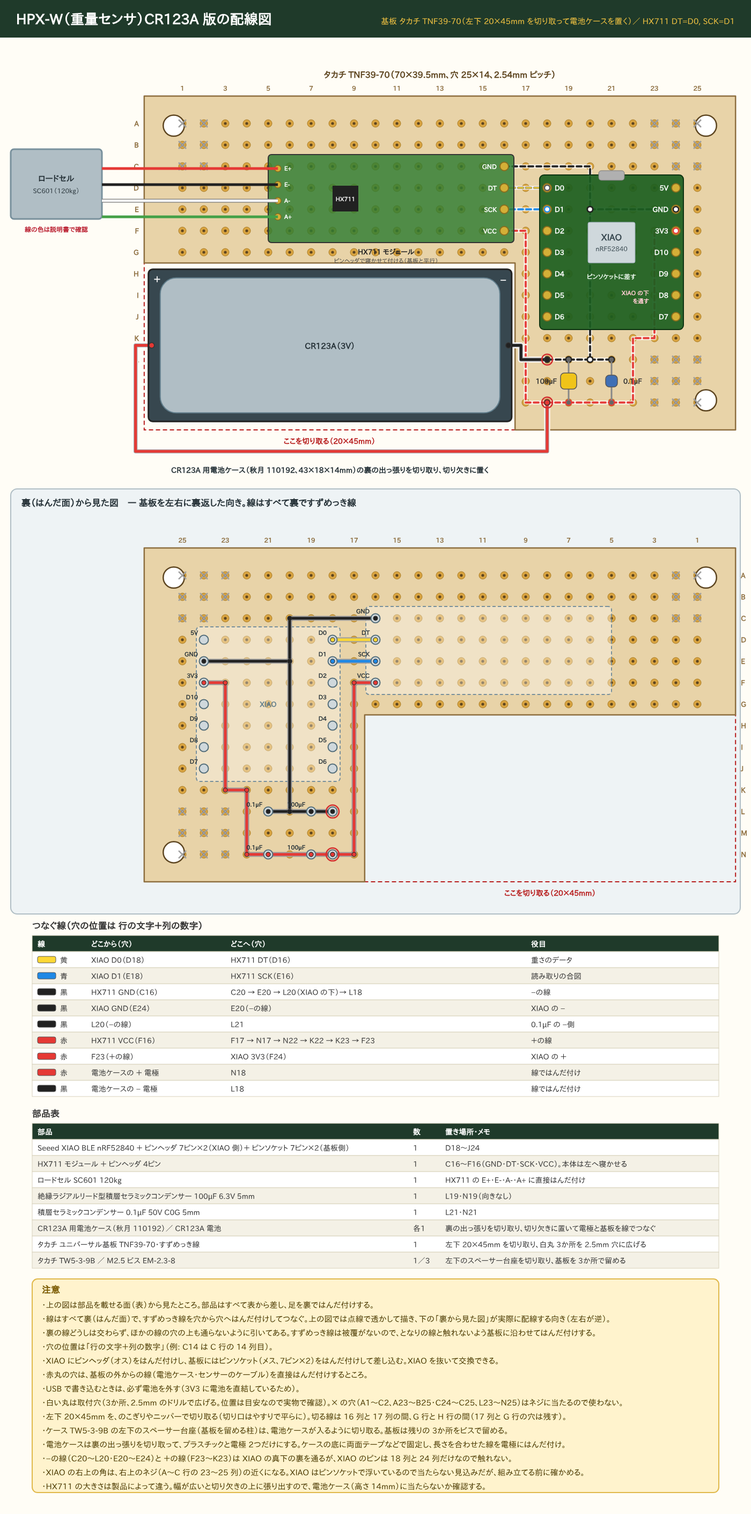
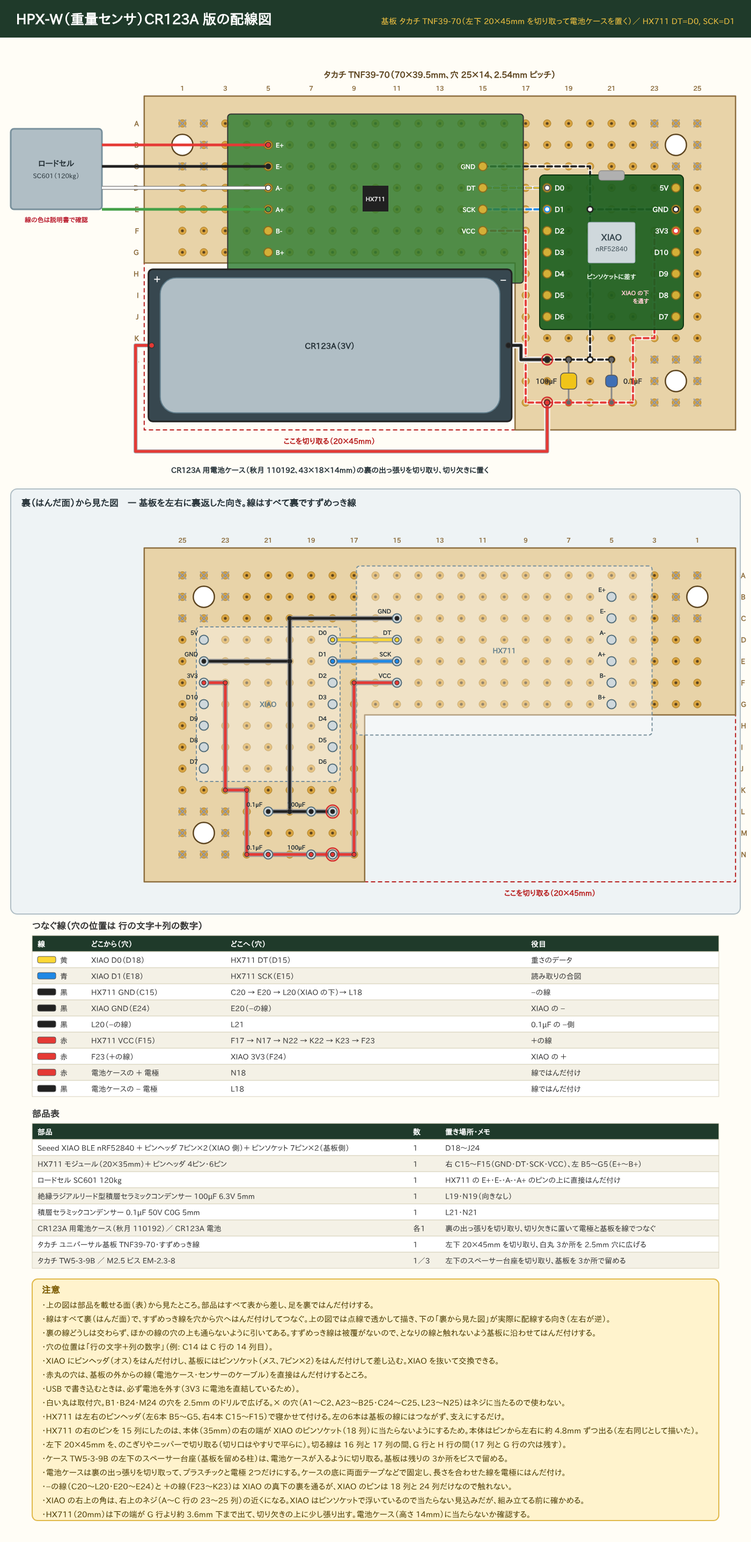
HPX-W CR123A 版: 取付穴を B1・B24・M24 に、HX711 を 20×35mm・左6ピンの形で描き直す
Claude-Session: https://claude.ai/code/session_01LCC9B39bJi5NT1jAZMyf2P

diff --git a/site/device-w.html b/site/device-w.html
@@ -298,13 +298,13 @@
       <div data-variant="w_cr">
       <div class="wtab"><h3>つなぐ線（穴の位置は 行の文字＋列の数字）</h3><div class="scroll"><table>
         <thead><tr><th>線</th><th>どこから（穴）</th><th>どこへ（穴）</th><th>役目</th></tr></thead>
-        <tbody><tr><td class="wc"><span class="sw" style="background:#fdd835"></span>黄</td><td>XIAO D0（D18）</td><td>HX711 DT（D16）</td><td>重さのデータ</td></tr><tr><td class="wc"><span class="sw" style="background:#1e88e5"></span>青</td><td>XIAO D1（E18）</td><td>HX711 SCK（E16）</td><td>読み取りの合図</td></tr><tr><td class="wc"><span class="sw" style="background:#212121"></span>黒</td><td>HX711 GND（C16）</td><td>C20 → E20 → L20（XIAO の下）→ L18</td><td>−の線</td></tr><tr><td class="wc"><span class="sw" style="background:#212121"></span>黒</td><td>XIAO GND（E24）</td><td>E20（−の線）</td><td>XIAO の −</td></tr><tr><td class="wc"><span class="sw" style="background:#212121"></span>黒</td><td>L20（−の線）</td><td>L21</td><td>0.1µF の −側</td></tr><tr><td class="wc"><span class="sw" style="background:#e53935"></span>赤</td><td>HX711 VCC（F16）</td><td>F17 → N17 → N22 → K22 → K23 → F23</td><td>＋の線</td></tr><tr><td class="wc"><span class="sw" style="background:#e53935"></span>赤</td><td>F23（＋の線）</td><td>XIAO 3V3（F24）</td><td>XIAO の ＋</td></tr><tr><td class="wc"><span class="sw" style="background:#e53935"></span>赤</td><td>電池ケースの ＋ 電極</td><td>N18</td><td>線ではんだ付け</td></tr><tr><td class="wc"><span class="sw" style="background:#212121"></span>黒</td><td>電池ケースの − 電極</td><td>L18</td><td>線ではんだ付け</td></tr></tbody>
+        <tbody><tr><td class="wc"><span class="sw" style="background:#fdd835"></span>黄</td><td>XIAO D0（D18）</td><td>HX711 DT（D15）</td><td>重さのデータ</td></tr><tr><td class="wc"><span class="sw" style="background:#1e88e5"></span>青</td><td>XIAO D1（E18）</td><td>HX711 SCK（E15）</td><td>読み取りの合図</td></tr><tr><td class="wc"><span class="sw" style="background:#212121"></span>黒</td><td>HX711 GND（C15）</td><td>C20 → E20 → L20（XIAO の下）→ L18</td><td>−の線</td></tr><tr><td class="wc"><span class="sw" style="background:#212121"></span>黒</td><td>XIAO GND（E24）</td><td>E20（−の線）</td><td>XIAO の −</td></tr><tr><td class="wc"><span class="sw" style="background:#212121"></span>黒</td><td>L20（−の線）</td><td>L21</td><td>0.1µF の −側</td></tr><tr><td class="wc"><span class="sw" style="background:#e53935"></span>赤</td><td>HX711 VCC（F15）</td><td>F17 → N17 → N22 → K22 → K23 → F23</td><td>＋の線</td></tr><tr><td class="wc"><span class="sw" style="background:#e53935"></span>赤</td><td>F23（＋の線）</td><td>XIAO 3V3（F24）</td><td>XIAO の ＋</td></tr><tr><td class="wc"><span class="sw" style="background:#e53935"></span>赤</td><td>電池ケースの ＋ 電極</td><td>N18</td><td>線ではんだ付け</td></tr><tr><td class="wc"><span class="sw" style="background:#212121"></span>黒</td><td>電池ケースの − 電極</td><td>L18</td><td>線ではんだ付け</td></tr></tbody>
       </table></div></div>
       <div class="wtab"><h3>部品の置き場所</h3><div class="scroll"><table>
         <thead><tr><th>部品</th><th>数</th><th>置き場所・メモ</th></tr></thead>
-        <tbody><tr><td>Seeed XIAO BLE nRF52840 ＋ ピンヘッダ 7ピン×2（XIAO 側）＋ ピンソケット 7ピン×2（基板側）</td><td>1</td><td>D18〜J24</td></tr><tr><td>HX711 モジュール ＋ ピンヘッダ 4ピン</td><td>1</td><td>C16〜F16（GND・DT・SCK・VCC）。本体は左へ寝かせる</td></tr><tr><td>ロードセル SC601 120kg</td><td>1</td><td>HX711 の E+・E-・A-・A+ に直接はんだ付け</td></tr><tr><td>絶縁ラジアルリード型積層セラミックコンデンサー 100µF 6.3V 5mm</td><td>1</td><td>L19・N19（向きなし）</td></tr><tr><td>積層セラミックコンデンサー 0.1µF 50V C0G 5mm</td><td>1</td><td>L21・N21</td></tr><tr><td>CR123A 用電池ケース（秋月 110192）／ CR123A 電池</td><td>各1</td><td>裏の出っ張りを切り取り、切り欠きに置いて電極と基板を線でつなぐ</td></tr><tr><td>タカチ ユニバーサル基板 TNF39-70・すずめっき線</td><td>1</td><td>左下 20×45mm を切り取り、白丸 3か所を 2.5mm 穴に広げる</td></tr><tr><td>タカチ TW5-3-9B ／ M2.5 ビス EM-2.3-8</td><td>1／3</td><td>左下のスペーサー台座を切り取り、基板を 3か所で留める</td></tr></tbody>
+        <tbody><tr><td>Seeed XIAO BLE nRF52840 ＋ ピンヘッダ 7ピン×2（XIAO 側）＋ ピンソケット 7ピン×2（基板側）</td><td>1</td><td>D18〜J24</td></tr><tr><td>HX711 モジュール（20×35mm）＋ ピンヘッダ 4ピン・6ピン</td><td>1</td><td>右 C15〜F15（GND・DT・SCK・VCC）、左 B5〜G5（E+〜B+）</td></tr><tr><td>ロードセル SC601 120kg</td><td>1</td><td>HX711 の E+・E-・A-・A+ のピンの上に直接はんだ付け</td></tr><tr><td>絶縁ラジアルリード型積層セラミックコンデンサー 100µF 6.3V 5mm</td><td>1</td><td>L19・N19（向きなし）</td></tr><tr><td>積層セラミックコンデンサー 0.1µF 50V C0G 5mm</td><td>1</td><td>L21・N21</td></tr><tr><td>CR123A 用電池ケース（秋月 110192）／ CR123A 電池</td><td>各1</td><td>裏の出っ張りを切り取り、切り欠きに置いて電極と基板を線でつなぐ</td></tr><tr><td>タカチ ユニバーサル基板 TNF39-70・すずめっき線</td><td>1</td><td>左下 20×45mm を切り取り、白丸 3か所を 2.5mm 穴に広げる</td></tr><tr><td>タカチ TW5-3-9B ／ M2.5 ビス EM-2.3-8</td><td>1／3</td><td>左下のスペーサー台座を切り取り、基板を 3か所で留める</td></tr></tbody>
       </table></div></div>
-      <div class="wnote"><h3>注意</h3><ul><li>上の図は部品を載せる面（表）から見たところ。部品はすべて表から差し、足を裏ではんだ付けする。</li><li>線はすべて裏（はんだ面）で、すずめっき線を穴から穴へはんだ付けしてつなぐ。上の図では点線で透かして描き、下の「裏から見た図」が実際に配線する向き（左右が逆）。</li><li>裏の線どうしは交わらず、ほかの線の穴の上も通らないように引いてある。すずめっき線は被覆がないので、となりの線と触れないよう基板に沿わせてはんだ付けする。</li><li>穴の位置は「行の文字＋列の数字」（例: C14 は C 行の 14 列目）。</li><li>XIAO にピンヘッダ（オス）をはんだ付けし、基板にはピンソケット（メス、7ピン×2）をはんだ付けして差し込む。XIAO を抜いて交換できる。</li><li>赤丸の穴は、基板の外からの線（電池ケース・センサーのケーブル）を直接はんだ付けするところ。</li><li>USB で書き込むときは、必ず電池を外す（3V3 に電池を直結しているため）。</li><li>白い丸は取付穴（3か所、2.5mm のドリルで広げる。位置は目安なので実物で確認）。× の穴（A1〜C2、A23〜B25・C24〜C25、L23〜N25）はネジに当たるので使わない。</li><li>左下 20×45mm を、のこぎりやニッパーで切り取る（切り口はやすりで平らに）。切る線は 16 列と 17 列の間、G 行と H 行の間（17 列と G 行の穴は残す）。</li><li>ケース TW5-3-9B の左下のスペーサー台座（基板を留める柱）は、電池ケースが入るように切り取る。基板は残りの 3か所をビスで留める。</li><li>電池ケースは裏の出っ張りを切り取って、プラスチックと電極 2つだけにする。ケースの底に両面テープなどで固定し、長さを合わせた線を電極にはんだ付け。</li><li>−の線（C20〜L20・E20〜E24）と ＋の線（F23〜K23）は XIAO の真下の裏を通るが、XIAO のピンは 18 列と 24 列だけなので触れない。</li><li>XIAO の右上の角は、右上のネジ（A〜C 行の 23〜25 列）の近くになる。XIAO はピンソケットで浮いているので当たらない見込みだが、組み立てる前に確かめる。</li><li>HX711 の大きさは製品によって違う。幅が広いと切り欠きの上に張り出すので、電池ケース（高さ 14mm）に当たらないか確認する。</li></ul></div>
+      <div class="wnote"><h3>注意</h3><ul><li>上の図は部品を載せる面（表）から見たところ。部品はすべて表から差し、足を裏ではんだ付けする。</li><li>線はすべて裏（はんだ面）で、すずめっき線を穴から穴へはんだ付けしてつなぐ。上の図では点線で透かして描き、下の「裏から見た図」が実際に配線する向き（左右が逆）。</li><li>裏の線どうしは交わらず、ほかの線の穴の上も通らないように引いてある。すずめっき線は被覆がないので、となりの線と触れないよう基板に沿わせてはんだ付けする。</li><li>穴の位置は「行の文字＋列の数字」（例: C14 は C 行の 14 列目）。</li><li>XIAO にピンヘッダ（オス）をはんだ付けし、基板にはピンソケット（メス、7ピン×2）をはんだ付けして差し込む。XIAO を抜いて交換できる。</li><li>赤丸の穴は、基板の外からの線（電池ケース・センサーのケーブル）を直接はんだ付けするところ。</li><li>USB で書き込むときは、必ず電池を外す（3V3 に電池を直結しているため）。</li><li>白い丸は取付穴。B1・B24・M24 の穴を 2.5mm のドリルで広げる。× の穴（A1〜C2、A23〜B25・C24〜C25、L23〜N25）はネジに当たるので使わない。</li><li>HX711 は左右のピンヘッダ（左6本 B5〜G5、右4本 C15〜F15）で寝かせて付ける。左の6本は基板の線にはつながず、支えにするだけ。</li><li>HX711 の右のピンを 15 列にしたのは、本体（35mm）の右の端が XIAO のピンソケット（18 列）に当たらないようにするため。本体はピンから左右に約 4.8mm ずつ出る（左右同じとして描いた）。</li><li>左下 20×45mm を、のこぎりやニッパーで切り取る（切り口はやすりで平らに）。切る線は 16 列と 17 列の間、G 行と H 行の間（17 列と G 行の穴は残す）。</li><li>ケース TW5-3-9B の左下のスペーサー台座（基板を留める柱）は、電池ケースが入るように切り取る。基板は残りの 3か所をビスで留める。</li><li>電池ケースは裏の出っ張りを切り取って、プラスチックと電極 2つだけにする。ケースの底に両面テープなどで固定し、長さを合わせた線を電極にはんだ付け。</li><li>−の線（C20〜L20・E20〜E24）と ＋の線（F23〜K23）は XIAO の真下の裏を通るが、XIAO のピンは 18 列と 24 列だけなので触れない。</li><li>XIAO の右上の角は、右上のネジ（A〜C 行の 23〜25 列）の近くになる。XIAO はピンソケットで浮いているので当たらない見込みだが、組み立てる前に確かめる。</li><li>HX711（20mm）は下の端が G 行より約 3.6mm 下まで出て、切り欠きの上に少し張り出す。電池ケース（高さ 14mm）に当たらないか確認する。</li></ul></div>
       </div>
       <figure class="wiring" data-variant="w_aa">
         <figcaption><b>単三リチウム電池版の配線図</b>基板 TNF34-124 の上に、単3×2本の電池ボックスを貼ります。</figcaption>

diff --git a/hardware/wiring/case/gen_case_pcb.py b/hardware/wiring/case/gen_case_pcb.py
@@ -366,10 +366,11 @@ def hn(c, r):
 
 GEO = None
 
-def board_tnf(s, model, wmm, hmm, nc, nr, cut=None, cut_label=None, mount_d=None, ng=None):
+def board_tnf(s, model, wmm, hmm, nc, nr, cut=None, cut_label=None, mount_d=None, ng=None, mount_at=None):
     """タカチ TNF 基板。横が長い向きで描く。穴は 行の文字 (A〜) ＋ 列の数字 (1〜)。
     cut=(幅mm, 高さmm) なら左下を切り欠く (cut_label は図に書く寸法)。
-    mount_d=取付穴の直径mm (白丸で描く)、ng=使えない穴 [(列,行)] (0 始まり、× を付ける)"""
+    mount_d=取付穴の直径mm (白丸で描く)、ng=使えない穴 [(列,行)] (0 始まり、× を付ける)、
+    mount_at=取付穴にする穴 [(列,行)] (なければ四すみから 3.5mm)"""
     global BW, BH, BOT, GEO
     rec_reset(); _i0 = len(s.items)
     BW, BH = nc, nr
@@ -402,7 +403,8 @@ def board_tnf(s, model, wmm, hmm, nc, nr, cut=None, cut_label=None, mount_d=None
         s.text(x0 - 10, OY + r * P + 5, ROWS[r], 13, "end", fill="#8d6e3f", weight="bold")
     # 四すみの取付穴 (位置は目安)。すぐ内側の穴は使わない
     m = 3.5 * k
-    for hx, hy in ((x0 + m, y0 + m), (x0 + bw - m, y0 + m), (x0 + m, y0 + bh - m), (x0 + bw - m, y0 + bh - m)):
+    corners = ((x0 + m, y0 + m), (x0 + bw - m, y0 + m), (x0 + m, y0 + bh - m), (x0 + bw - m, y0 + bh - m))
+    for hx, hy in ([(OX + c * P, OY + r * P) for c, r in mount_at] if mount_at else corners):
         if in_cut(hx, hy):
             continue
         if mount_d:
@@ -411,7 +413,7 @@ def board_tnf(s, model, wmm, hmm, nc, nr, cut=None, cut_label=None, mount_d=None
         s.add(f'<circle cx="{hx}" cy="{hy}" r="{1.6*k}" fill="#fffdf6" stroke="#8d6e3f" stroke-width="2" stroke-dasharray="4 3"/>')
     for c, r in (ng if ng is not None else ((0, 0), (nc - 1, 0), (0, nr - 1), (nc - 1, nr - 1))):
         x, y = OX + c * P, OY + r * P
-        if in_cut(x, y, 1.0 * k):
+        if in_cut(x, y, 1.0 * k) or (mount_at and (c, r) in mount_at):
             continue
         s.add(f'<path d="M{x-7},{y-7} L{x+7},{y+7} M{x-7},{y+7} L{x+7},{y-7}" stroke="#9e9e9e" stroke-width="2.5"/>')
     s.text(x0 + bw / 2, y0 - 34, f"タカチ {model}（{wmm}×{hmm}mm、穴 {nc}×{nr}、2.54mm ピッチ）", 16, "middle", "bold", "#5d4520")
@@ -676,45 +678,63 @@ def make_W_cut(fname):
     NG = ([(c, r) for c in (0, 1) for r in (0, 1, 2)] + [(c, r) for c in (22, 23, 24) for r in (0, 1)]
           + [(23, 2), (24, 2)] + [(c, r) for c in (22, 23, 24) for r in (11, 12, 13)])
     # 切る線は 16 列と 17 列の間、G 行と H 行の間 (穴の位置からの目安。17 列と G 行の穴は残す)
-    board_tnf(s, "TNF39-70", 70, 39.5, 25, 14, cut=(43.9, 19.75), cut_label="20×45mm", mount_d=2.5, ng=NG)
+    board_tnf(s, "TNF39-70", 70, 39.5, 25, 14, cut=(43.9, 19.75), cut_label="20×45mm", mount_d=2.5, ng=NG,
+              mount_at=[(0, 1), (23, 1), (23, 12)])   # 取付穴は B1・B24・M24 の穴を 2.5mm に広げる (TARO 2026-11-15)
     p = xiao_pcb(s, 17, 3)                                   # XIAO D18〜J24
     # −の線 (黒): HX711 GND C16 → C20 → L20 → L19 → L18 (電池−)、E20 → E24 (XIAO GND)、L20 → L21
-    wireh(s, [(15, 2), (19, 2), (19, 4)], "black")
+    wireh(s, [(14, 2), (19, 2), (19, 4)], "black")
     wireh(s, [(19, 4), p["GND"]], "black")
     wireh(s, [(19, 4), (19, 11)], "black")
     wireh(s, [(19, 11), (18, 11)], "black")
     wireh(s, [(18, 11), (17, 11)], "black")
     wireh(s, [(19, 11), (20, 11)], "black")
     # ＋の線 (赤): HX711 VCC F16 → F17 → N17 → N18 (電池＋) → N19 → N21 → N22 → K22 → K23 → F23 → F24 (XIAO 3V3)
-    wireh(s, [(15, 5), (16, 5), (16, 13), (17, 13)], "red")
+    wireh(s, [(14, 5), (16, 5), (16, 13), (17, 13)], "red")
     wireh(s, [(17, 13), (18, 13)], "red")
     wireh(s, [(18, 13), (20, 13)], "red")
     wireh(s, [(20, 13), (21, 13), (21, 10), (22, 10), (22, 5), p["3V3"]], "red")
     x1, y1 = H(22, 5); _, y2 = H(22, 9)
     s.text(x1 - 10, (y1 + y2) / 2 + 40, "XIAO の下", 11, "end", "bold", "#ffcdd2", layer=s.top)
     s.text(x1 - 10, (y1 + y2) / 2 + 55, "を通す", 11, "end", "bold", "#ffcdd2", layer=s.top)
-    wireh(s, [p["D0"], (15, 3)], "yellow")
-    wireh(s, [p["D1"], (15, 4)], "blue")
+    wireh(s, [p["D0"], (14, 3)], "yellow")
+    wireh(s, [p["D1"], (14, 4)], "blue")
     cap_flat(s, (18, 11), (18, 13), "100µF", True, (H(18, 12)[0] - 22, H(18, 12)[1] + 5), "end")
     cap_flat(s, (20, 11), (20, 13), "0.1µF", False, (H(20, 12)[0] + 22, H(20, 12)[1] + 5))
-    lx, ty, by = flat_module(s, [2, 3, 4, 5], ["GND", "DT", "SCK", "VCC"], "#2e7d32", 11,
-                             "HX711 モジュール", "ピンヘッダで寝かせて付ける（基板と平行）", col=15)
-    s.top.append(f'<rect x="{lx+120}" y="{(ty+by)/2-24}" width="48" height="48" fill="#212121"/>')
-    s.text(lx + 144, (ty + by) / 2 + 5, "HX711", 11, "middle", "bold", "#eee", layer=s.top)
-    for i, n in enumerate(["E+", "E-", "A-", "A+"]):
-        y = ty + 26 + i * 30
-        s.top.append(f'<circle cx="{lx+18}" cy="{y}" r="6" fill="#d4af37" stroke="#8a6d1d" stroke-width="1.5"/>')
-        s.text(lx + 30, y + 4, n, 11, "start", "bold", "#fff", layer=s.top)
-    s.rect(20, ty - 10, 170, 130, "#b0bec5", "#78909c", 6, 3)
-    s.text(105, ty + 50, "ロードセル", 15, "middle", "bold", "#263238")
-    s.text(105, ty + 72, "SC601（120kg）", 12, "middle", fill="#263238")
-    s.text(105, ty + 144, "線の色は説明書で確認", 12, "middle", fill="#b23", weight="bold")
+    # HX711 (TARO 2026-11-15): 20×35mm。左に E+・E-・A-・A+・B-・B+ の6ピン (E+ が B 行、B+ が G 行)、
+    # 右に GND・DT・SCK・VCC の4ピン (GND は E- と同じ行、VCC は B- と同じ行)。左右のピンは 10 穴はなれる。
+    # 右のピンを 15 列にして、本体の右の端が XIAO のピンソケットに当たらないようにした
+    LP, RP = 4, 14
+    k = GEO[4]
+    xl, yt = H(LP, 1); xr, yb2 = H(RP, 6)
+    ex, ey = (35 - 25.4) / 2 * k, (20 - 12.7) / 2 * k
+    hx0, hy0, hw, hh = xl - ex, yt - ey, (xr - xl) + 2 * ex, (yb2 - yt) + 2 * ey
+    s.top.append(f'<rect x="{hx0}" y="{hy0}" width="{hw}" height="{hh}" rx="6" fill="#2e7d32" fill-opacity="0.82" stroke="#333" stroke-width="2"/>')
+    rec_part(hx0, hy0, hw, hh, "HX711")
+    cx_, cy_ = (xl + xr) / 2, (yt + yb2) / 2
+    s.top.append(f'<rect x="{cx_-24}" y="{cy_-24}" width="48" height="48" fill="#212121"/>')
+    s.text(cx_, cy_ + 5, "HX711", 11, "middle", "bold", "#eee", layer=s.top)
+    for i, n in enumerate(["E+", "E-", "A-", "A+", "B-", "B+"]):
+        x, y = H(LP, 1 + i); rec_pin(x, y, n)
+        s.top.append(f'<circle cx="{x}" cy="{y}" r="8" fill="#d4af37" stroke="#8a6d1d" stroke-width="2"/>')
+        s.text(x + 14, y + 5, n, 12, "start", "bold", "#fff", layer=s.top)
+    for i, n in enumerate(["GND", "DT", "SCK", "VCC"]):
+        x, y = H(RP, 2 + i); rec_pin(x, y, n)
+        s.top.append(f'<circle cx="{x}" cy="{y}" r="8" fill="#d4af37" stroke="#8a6d1d" stroke-width="2"/>')
+        s.text(x - 14, y + 5, n, 12, "end", "bold", "#fff", layer=s.top)
+    s.text(cx_, hy0 + hh + 18, "HX711 モジュール（20×35mm）ピンヘッダで寝かせて付ける", 12, "middle", "bold", "#222", layer=s.top)
+    # ロードセルの線は HX711 の E+・E-・A-・A+ のピンの上 (モジュールの表) に直接はんだ付け
+    s.rect(20, yt - 30, 170, 150, "#b0bec5", "#78909c", 6, 3)
+    s.text(105, yt + 40, "ロードセル", 15, "middle", "bold", "#263238")
+    s.text(105, yt + 62, "SC601（120kg）", 12, "middle", fill="#263238")
+    s.text(105, yt + 144, "線の色は説明書で確認", 12, "middle", fill="#b23", weight="bold")
     for i, c in enumerate(["red", "black", "white", "green"]):
-        y = ty + 26 + i * 30
+        x, y = H(LP, 1 + i)
+        d = f"M{x},{y} L{x-30},{y} L{x-30-(3-i)*8},{yt-20+i*30+20} L190,{yt-20+i*30+20}" if False else f"M{x},{y} L190,{y}"
         if c == "white":
-            s.top.append(f'<path d="M{lx+18},{y} L190,{y}" fill="none" stroke="#777" stroke-width="7"/><path d="M{lx+18},{y} L190,{y}" fill="none" stroke="#fafafa" stroke-width="4.5"/>')
+            s.top.append(f'<path d="{d}" fill="none" stroke="#777" stroke-width="7"/><path d="{d}" fill="none" stroke="#fafafa" stroke-width="4.5"/>')
         else:
-            s.top.append(f'<path d="M{lx+18},{y} L190,{y}" fill="none" stroke="{COL[c]}" stroke-width="5"/>')
+            s.top.append(f'<path d="{d}" fill="none" stroke="{COL[c]}" stroke-width="5"/>')
+        s.top.append(f'<circle cx="{x}" cy="{y}" r="5" fill="{COL[c] if c != "white" else "#fafafa"}" stroke="#333" stroke-width="1.5"/>')
     # 電池ケースを切り欠きに置く (＋を左、−を右)。裏の出っ張りは切り取り、電極に線をはんだ付け
     bpos, bneg = cr123a_in_cut(s, 0.5, 20.5)
     x0, y0, bw, bh, k = GEO
@@ -727,12 +747,12 @@ def make_W_cut(fname):
     yb = back_section(s, BOT + 110, fname)
     y = table(s, 60, yb + 40, [
         ["線", "どこから（穴）", "どこへ（穴）", "役目"],
-        ["yellow", f"XIAO D0（{hn(17,3)}）", f"HX711 DT（{hn(15,3)}）", "重さのデータ"],
-        ["blue", f"XIAO D1（{hn(17,4)}）", f"HX711 SCK（{hn(15,4)}）", "読み取りの合図"],
-        ["black", f"HX711 GND（{hn(15,2)}）", f"{hn(19,2)} → {hn(19,4)} → {hn(19,11)}（XIAO の下）→ {hn(17,11)}", "−の線"],
+        ["yellow", f"XIAO D0（{hn(17,3)}）", f"HX711 DT（{hn(14,3)}）", "重さのデータ"],
+        ["blue", f"XIAO D1（{hn(17,4)}）", f"HX711 SCK（{hn(14,4)}）", "読み取りの合図"],
+        ["black", f"HX711 GND（{hn(14,2)}）", f"{hn(19,2)} → {hn(19,4)} → {hn(19,11)}（XIAO の下）→ {hn(17,11)}", "−の線"],
         ["black", f"XIAO GND（{hn(23,4)}）", f"{hn(19,4)}（−の線）", "XIAO の −"],
         ["black", f"{hn(19,11)}（−の線）", f"{hn(20,11)}", "0.1µF の −側"],
-        ["red", f"HX711 VCC（{hn(15,5)}）", f"{hn(16,5)} → {hn(16,13)} → {hn(21,13)} → {hn(21,10)} → {hn(22,10)} → {hn(22,5)}", "＋の線"],
+        ["red", f"HX711 VCC（{hn(14,5)}）", f"{hn(16,5)} → {hn(16,13)} → {hn(21,13)} → {hn(21,10)} → {hn(22,10)} → {hn(22,5)}", "＋の線"],
         ["red", f"{hn(22,5)}（＋の線）", f"XIAO 3V3（{hn(23,5)}）", "XIAO の ＋"],
         ["red", "電池ケースの ＋ 電極", f"{hn(17,13)}", "線ではんだ付け"],
         ["black", "電池ケースの − 電極", f"{hn(17,11)}", "線ではんだ付け"],
@@ -740,8 +760,8 @@ def make_W_cut(fname):
     y = table(s, 60, y + 50, [
         ["部品", "数", "置き場所・メモ"],
         ["Seeed XIAO BLE nRF52840 ＋ ピンヘッダ 7ピン×2（XIAO 側）＋ ピンソケット 7ピン×2（基板側）", "1", f"{hn(17,3)}〜{hn(23,9)}"],
-        ["HX711 モジュール ＋ ピンヘッダ 4ピン", "1", f"{hn(15,2)}〜{hn(15,5)}（GND・DT・SCK・VCC）。本体は左へ寝かせる"],
-        ["ロードセル SC601 120kg", "1", "HX711 の E+・E-・A-・A+ に直接はんだ付け"],
+        ["HX711 モジュール（20×35mm）＋ ピンヘッダ 4ピン・6ピン", "1", f"右 {hn(14,2)}〜{hn(14,5)}（GND・DT・SCK・VCC）、左 {hn(4,1)}〜{hn(4,6)}（E+〜B+）"],
+        ["ロードセル SC601 120kg", "1", "HX711 の E+・E-・A-・A+ のピンの上に直接はんだ付け"],
         ["絶縁ラジアルリード型積層セラミックコンデンサー 100µF 6.3V 5mm", "1", f"{hn(18,11)}・{hn(18,13)}（向きなし）"],
         ["積層セラミックコンデンサー 0.1µF 50V C0G 5mm", "1", f"{hn(20,11)}・{hn(20,13)}"],
         ["CR123A 用電池ケース（秋月 110192）／ CR123A 電池", "各1", "裏の出っ張りを切り取り、切り欠きに置いて電極と基板を線でつなぐ"],
@@ -749,13 +769,15 @@ def make_W_cut(fname):
         ["タカチ TW5-3-9B ／ M2.5 ビス EM-2.3-8", "1／3", "左下のスペーサー台座を切り取り、基板を 3か所で留める"],
     ], [700, 60, 520], "部品表")
     L = NOTES[:-1] + [
-        "・白い丸は取付穴（3か所、2.5mm のドリルで広げる。位置は目安なので実物で確認）。× の穴（A1〜C2、A23〜B25・C24〜C25、L23〜N25）はネジに当たるので使わない。",
+        "・白い丸は取付穴。B1・B24・M24 の穴を 2.5mm のドリルで広げる。× の穴（A1〜C2、A23〜B25・C24〜C25、L23〜N25）はネジに当たるので使わない。",
+        f"・HX711 は左右のピンヘッダ（左6本 {hn(4,1)}〜{hn(4,6)}、右4本 {hn(14,2)}〜{hn(14,5)}）で寝かせて付ける。左の6本は基板の線にはつながず、支えにするだけ。",
+        "・HX711 の右のピンを 15 列にしたのは、本体（35mm）の右の端が XIAO のピンソケット（18 列）に当たらないようにするため。本体はピンから左右に約 4.8mm ずつ出る（左右同じとして描いた）。",
         "・左下 20×45mm を、のこぎりやニッパーで切り取る（切り口はやすりで平らに）。切る線は 16 列と 17 列の間、G 行と H 行の間（17 列と G 行の穴は残す）。",
         "・ケース TW5-3-9B の左下のスペーサー台座（基板を留める柱）は、電池ケースが入るように切り取る。基板は残りの 3か所をビスで留める。",
         "・電池ケースは裏の出っ張りを切り取って、プラスチックと電極 2つだけにする。ケースの底に両面テープなどで固定し、長さを合わせた線を電極にはんだ付け。",
         f"・−の線（{hn(19,2)}〜{hn(19,11)}・{hn(19,4)}〜{hn(23,4)}）と ＋の線（{hn(22,5)}〜{hn(22,10)}）は XIAO の真下の裏を通るが、XIAO のピンは 18 列と 24 列だけなので触れない。",
         "・XIAO の右上の角は、右上のネジ（A〜C 行の 23〜25 列）の近くになる。XIAO はピンソケットで浮いているので当たらない見込みだが、組み立てる前に確かめる。",
-        "・HX711 の大きさは製品によって違う。幅が広いと切り欠きの上に張り出すので、電池ケース（高さ 14mm）に当たらないか確認する。",
+        "・HX711（20mm）は下の端が G 行より約 3.6mm 下まで出て、切り欠きの上に少し張り出す。電池ケース（高さ 14mm）に当たらないか確認する。",
     ]
     notes(s, 60, y + 20, L)
     s.h = int(y + 20 + 34 + 26 * len(L) + 40)
